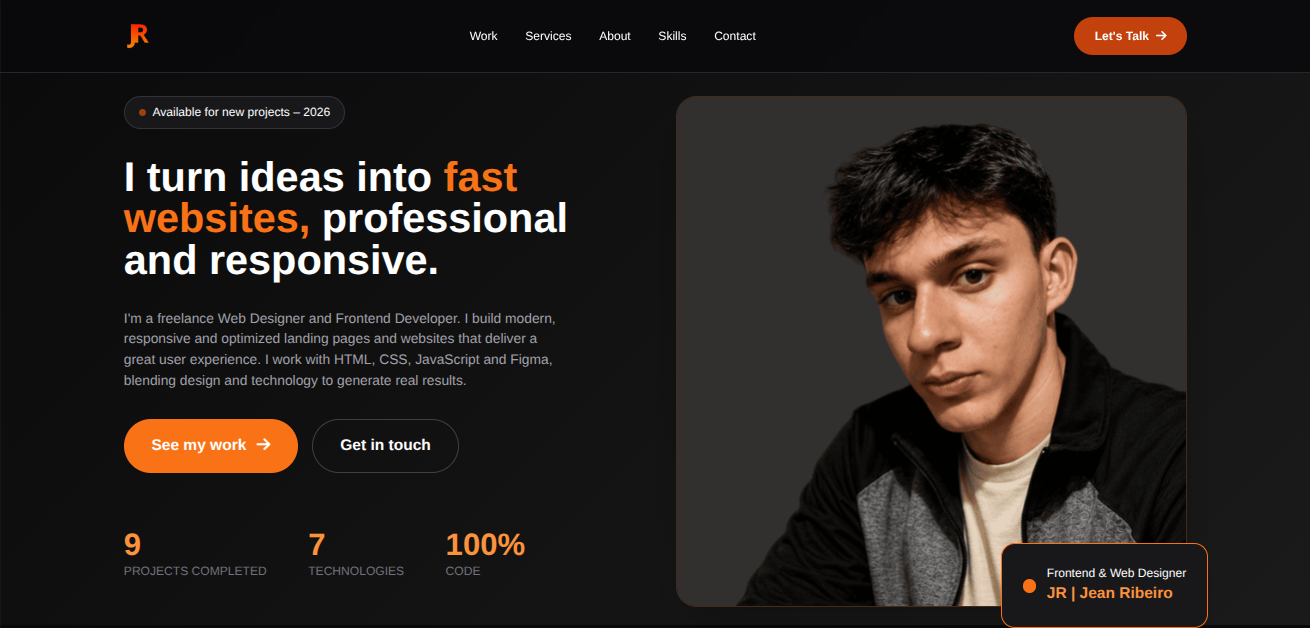
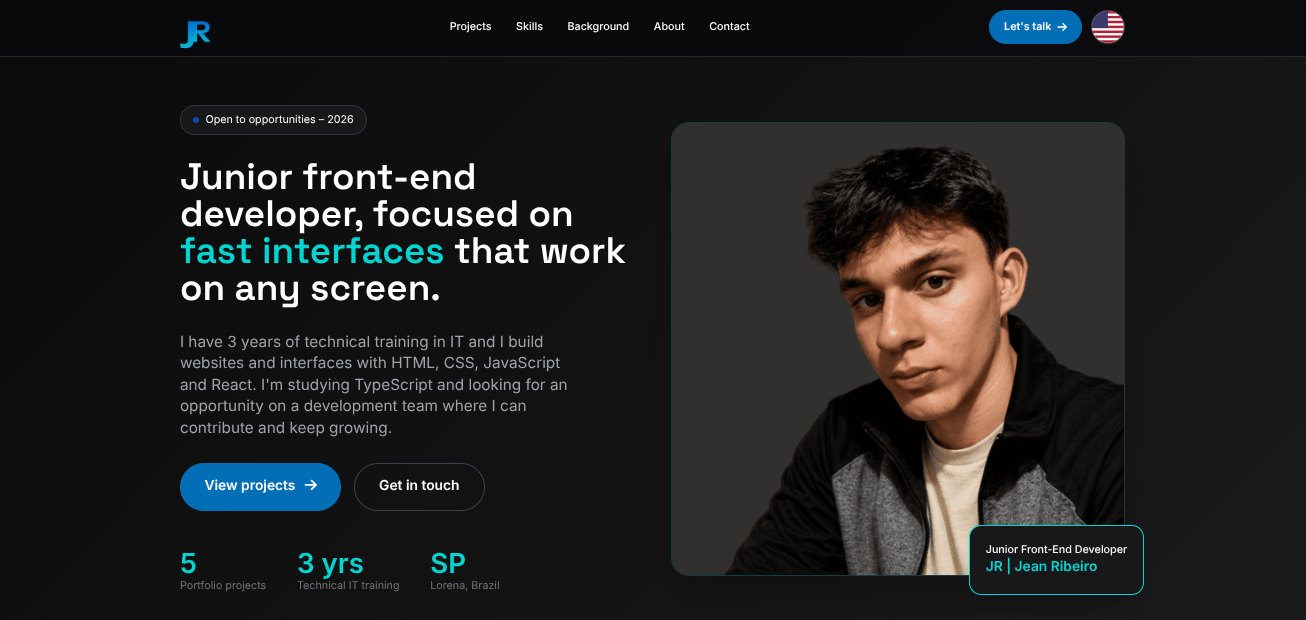
upd

diff --git a/src/script/script.js b/src/script/script.js
@@ -1,132 +1,5 @@
-   // Simple tailwind script already included via CDN
-        // Add smooth scroll
-        document.querySelectorAll('a[href^="#"]').forEach(anchor => {
-            anchor.addEventListener('click', function (e) {
-                if (this.getAttribute('href') !== '#') {
-                    e.preventDefault();
-                    document.querySelector(this.getAttribute('href')).scrollIntoView({
-                        behavior: 'smooth'
-                    });
-                }
-            });
-        });
-
-
-//FILTER
-
-    const filterSelect = document.getElementById('projectFilter');
-    const projectCards = document.querySelectorAll('.project-card');
-
-    filterSelect.addEventListener('change', function () {
-        const selected = this.value;
-
-        projectCards.forEach(card => {
-            const category = card.getAttribute('data-category');
-
-            if (selected === 'all' || category === selected) {
-                card.style.display = 'block';
-            
-                card.style.opacity = '0';
-                setTimeout(() => {
-                    card.style.opacity = '1';
-                    card.style.transition = 'opacity 0.3s ease';
-                }, 50);
-            } else {
-                card.style.display = 'none';
-            }
-        });
-    });
-
-  gsap.registerPlugin(ScrollTrigger);
-
-  // ======================
-  // HERO
-  // ======================
-  gsap.from(".hero-bg .space-y-8 > *", {
-    opacity: 0,
-    y: 40,
-    duration: 0.9,
-    stagger: 0.15,
-    ease: "power3.out",
-    delay: 0.2
-  });
-
-  gsap.from(".hero-bg .relative", {
-    opacity: 0,
-    x: 60,
-    duration: 1.1,
-    ease: "power3.out",
-    delay: 0.4
-  });
-
-  // ======================
-  // ABOUT
-  // ======================
-  gsap.from("#about .md\\:col-span-5", {
-    opacity: 0,
-    x: -40,
-    duration: 1,
-    ease: "power3.out",
-    scrollTrigger: {
-      trigger: "#about",
-      start: "top 80%"
-    }
-  });
-
-  gsap.from("#about .md\\:col-span-7 > *", {
-    opacity: 0,
-    y: 30,
-    duration: 0.8,
-    stagger: 0.1,
-    ease: "power3.out",
-    scrollTrigger: {
-      trigger: "#about",
-      start: "top 75%"
-    }
-  });
-
-  // ======================
-  // SKILLS
-  // ======================
-  gsap.from("#skills .grid > div", {
-    opacity: 0,
-    y: 40,
-    duration: 0.8,
-    stagger: 0.12,
-    ease: "power3.out",
-    scrollTrigger: {
-      trigger: "#skills",
-      start: "top 80%"
-    }
-  });
-
-
-  // ======================
-  // CONTACT
-  // ======================
-  gsap.from("#contact .grid > div:first-child", {
-    opacity: 0,
-    x: -40,
-    duration: 1,
-    ease: "power3.out",
-    scrollTrigger: {
-      trigger: "#contact",
-      start: "top 80%"
-    }
-  });
-
-  gsap.from("#contact form", {
-    opacity: 0,
-    x: 40,
-    duration: 1,
-    ease: "power3.out",
-    scrollTrigger: {
-      trigger: "#contact",
-      start: "top 80%"
-    }
-  });
-
-
+// As animações (GSAP) ficam no bloco inline do index.html.
+// O scroll suave é feito pelo CSS (scroll-behavior: smooth em style.css).
 
 // ===== Menu mobile =====
 const menuBtn = document.getElementById('menuBtn'), mobileMenu = document.getElementById('mobileMenu');
@@ -149,14 +22,17 @@ const EN = {
   "Projetos no portfólio":"Portfolio projects","3 anos":"3 yrs","Formação técnica em TI":"Technical IT training","Lorena, Brasil":"Lorena, Brazil",
   "Desenvolvedor Front-End Júnior":"Junior Front-End Developer",
   "Projetos que fiz para praticar e demonstrar minhas habilidades. Cada card mostra as tecnologias usadas, com o site publicado e o código no GitHub quando disponíveis.":"Projects I built to practice and showcase my skills. Each card lists the technologies used, with the live site and the code on GitHub when available.",
-  "Dashboard de Operações Empresariais":"Enterprise Operations Dashboard","Dashboard de Analytics de Engenharia":"Engineering Analytics Dashboard","Aplicação de Vagas":"Job Board Application","Projeto de Performance em React":"React Performance Project","Ferramenta de Análise Estática de Código":"Static Code Analysis Tool",
+  "Dashboard de Operações Empresariais":"Enterprise Operations Dashboard",
+  "Dashboard de Analytics de Engenharia":"Engineering Analytics Dashboard",
+  "Aplicação de Vagas":"Job Board Application",
+  "Projeto de Performance em React":"React Performance Project",
+  "Ferramenta de Análise Estática de Código":"Static Code Analysis Tool",
   "Dashboard empresarial para gerenciar usuários, equipes, projetos, tarefas, relatórios, logs de auditoria e configurações do sistema.":"Enterprise dashboard for managing users, teams, projects, tasks, reports, audit logs, and system settings.",
   "Dashboard de analytics de engenharia para monitorar repositórios, pull requests, code reviews, atividade da equipe, riscos e recomendações no estilo de IA.":"Engineering analytics dashboard for monitoring repositories, pull requests, code reviews, team activity, risks, and AI-style recommendations.",
   "Job board responsivo com busca, filtros, paginação, estados de carregamento, erro e resultados vazios, integrado a uma API REST externa.":"Responsive job board with search, filters, pagination, loading, error, and empty states, integrated with an external REST API.",
   "Projeto em React e TypeScript voltado ao estudo de performance, comportamento de componentes e otimização do front-end.":"React and TypeScript project focused on performance, component behavior, and frontend optimization.",
   "Ferramenta de análise estática para JavaScript e TypeScript usando AST, métricas de código, detecção de problemas, sugestões e análise assistida por IA.":"Static analysis tool for JavaScript and TypeScript using AST parsing, code metrics, issue detection, suggestions, and AI-assisted analysis.",
-  "Ver site":"Live site","GitHub":"GitHub",
-  "Visualizar":"Preview","Ver site":"Ver site","Código":"Code",
+  "Ver site":"Live site","Código":"Code",
   "Tecnologias que uso nos projetos e as que estou aprendendo agora.":"Technologies I use in my projects and the ones I'm learning right now.",
   "Ferramentas e práticas":"Tools and practices","Design responsivo":"Responsive design","APIs REST":"REST APIs",
   "CMS e back-end básico":"CMS and basic back-end","Estudando agora":"Currently studying",
@@ -173,16 +49,11 @@ const EN = {
   "Vamos conversar?":"Let's talk?",
   "Está recrutando ou quer saber mais sobre algum projeto? Envie uma mensagem. Respondo em até 24 horas.":"Are you hiring or want to know more about a project? Send me a message. I reply within 24 hours.",
   "Lorena, SP, Brasil":"Lorena, SP, Brazil","Enviar mensagem":"Send message",
-  /* atributos */
+  /* atributos (placeholder, aria-label, alt) */
   "Nome":"Name","E-mail":"Email","Empresa (opcional)":"Company (optional)","Escreva sua mensagem...":"Write your message...",
   "Empresa":"Company","Mensagem":"Message","Abrir menu":"Open menu","Principal":"Main","Tecnologias":"Technologies",
   "Logo JR Desenvolvedor Front-End":"JR Front-End Developer logo",
-  "OpsHub":"OpsHub","DevInsight":"DevInsight","Jobly":"Jobly","React Performance":"React Performance","CodeLens":"CodeLens",
-  "Jean Ribeiro, desenvolvedor front-end júnior":"Jean Ribeiro, junior front-end developer",
-  "Landing page da barbearia":"Barbershop landing page","Landing page da academia":"Gym landing page",
-  "Site da Techschool":"Techschool website","Site da Nexus Consulting":"Nexus Consulting website",
-  "Site da clínica odontológica BrightSmile":"BrightSmile dental clinic website",
-  "Site da agência Blaze Agencia":"Blaze Agencia marketing website","E-commerce da Petalora":"Petalora e-commerce website"
+  "Jean Ribeiro, desenvolvedor front-end júnior":"Jean Ribeiro, junior front-end developer"
 };
 const META = {
   pt: { title: document.title, desc: document.querySelector('meta[name="description"]').content },
@@ -252,4 +123,3 @@ contactForm.addEventListener('submit', async e => {
     if (r.ok) { contactForm.reset(); setStatus('ok', 'text-green-400'); } else throw new Error();
   } catch (err) { setStatus('err', 'text-red-400'); }
 });
-

diff --git a/index.html b/index.html
@@ -7,6 +7,9 @@
 <meta name="description" content="Desenvolvedor Front-End júnior em Lorena (SP). Interfaces responsivas com HTML, CSS, JavaScript e React. Veja meus projetos, competências e entre em contato.">
 <!-- Depois de definir a URL final deste site, adicione: <link rel="canonical" href="https://SEU-DOMINIO/"> -->
 <link rel="icon" href="./src/img/favic.png">
+<link rel="preconnect" href="https://fonts.googleapis.com">
+<link rel="preconnect" href="https://fonts.gstatic.com" crossorigin>
+<link href="https://fonts.googleapis.com/css2?family=Inter:wght@400;500;600&family=Space+Grotesk:wght@500;600&display=swap" rel="stylesheet">
 <link rel="stylesheet" href="./src/style/style.css">
 <script src="https://cdn.tailwindcss.com"></script>
 <link rel="stylesheet" href="https://cdnjs.cloudflare.com/ajax/libs/font-awesome/6.5.1/css/all.min.css">
@@ -118,16 +121,9 @@
     <div id="projectsGrid" class="grid md:grid-cols-2 gap-8">
 
       <article class="project-card group card-hover bg-zinc-900 rounded-3xl overflow-hidden border border-zinc-800">
-      
         <div class="h-80 bg-zinc-800 overflow-hidden">
-    <img
-        src="./src/img-sites/opshub.webp"
-        alt="OpsHub dashboard"
-        class="w-full h-full object-cover"
-        loading="lazy"
-    >
-</div>
-
+          <img src="./src/img-sites/opshub.webp" alt="OpsHub dashboard" class="w-full h-full object-cover" loading="lazy">
+        </div>
         <div class="p-8">
           <div class="flex justify-between items-start gap-4">
             <div><h3 class="font-semibold text-xl">OpsHub</h3><div class="text-zinc-400 text-sm">Dashboard de Operações Empresariais</div></div>
@@ -142,16 +138,9 @@
       </article>
 
       <article class="project-card group card-hover bg-zinc-900 rounded-3xl overflow-hidden border border-zinc-800">
-      
-         <div class="h-80 bg-zinc-800 overflow-hidden">
-    <img
-        src="./src/img-sites/dev.webp"
-        alt="DevInsight dashboard"
-        class="w-full h-full object-cover"
-        loading="lazy"
-    >
-</div>
-
+        <div class="h-80 bg-zinc-800 overflow-hidden">
+          <img src="./src/img-sites/dev.webp" alt="DevInsight dashboard" class="w-full h-full object-cover" loading="lazy">
+        </div>
         <div class="p-8">
           <div class="flex justify-between items-start gap-4">
             <div><h3 class="font-semibold text-xl">DevInsight</h3><div class="text-zinc-400 text-sm">Dashboard de Analytics de Engenharia</div></div>
@@ -166,16 +155,9 @@
       </article>
 
       <article class="project-card group card-hover bg-zinc-900 rounded-3xl overflow-hidden border border-zinc-800">
-       
-         <div class="h-80 bg-zinc-800 overflow-hidden">
-    <img
-        src="./src/img-sites/job.webp"
-        alt="Jobly"
-        class="w-full h-full object-cover"
-        loading="lazy"
-    >
-</div>
-
+        <div class="h-80 bg-zinc-800 overflow-hidden">
+          <img src="./src/img-sites/job.webp" alt="Jobly" class="w-full h-full object-cover" loading="lazy">
+        </div>
         <div class="p-8">
           <div class="flex justify-between items-start gap-4">
             <div><h3 class="font-semibold text-xl">Jobly</h3><div class="text-zinc-400 text-sm">Aplicação de Vagas</div></div>
@@ -190,15 +172,9 @@
       </article>
 
       <article class="project-card group card-hover bg-zinc-900 rounded-3xl overflow-hidden border border-zinc-800">
-       <div class="h-80 bg-zinc-800 overflow-hidden">
-    <img
-        src="./src/img-sites/react-p.webp"
-        alt="React Performance"
-        class="w-full h-full object-cover"
-        loading="lazy"
-    >
-</div>
-      
+        <div class="h-80 bg-zinc-800 overflow-hidden">
+          <img src="./src/img-sites/react-p.webp" alt="React Performance" class="w-full h-full object-cover" loading="lazy">
+        </div>
         <div class="p-8">
           <div class="flex justify-between items-start gap-4">
             <div><h3 class="font-semibold text-xl">React Performance</h3><div class="text-zinc-400 text-sm">Projeto de Performance em React</div></div>
@@ -214,14 +190,8 @@
 
       <article class="project-card group card-hover bg-zinc-900 rounded-3xl overflow-hidden border border-zinc-800">
         <div class="h-80 bg-zinc-800 overflow-hidden">
-    <img
-        src="./src/img-sites/code.webp"
-        alt="CodeLens dashboard"
-        class="w-full h-full object-cover"
-        loading="lazy"
-    >
-</div>
-
+          <img src="./src/img-sites/code.webp" alt="CodeLens dashboard" class="w-full h-full object-cover" loading="lazy">
+        </div>
         <div class="p-8">
           <div class="flex justify-between items-start gap-4">
             <div><h3 class="font-semibold text-xl">CodeLens</h3><div class="text-zinc-400 text-sm">Ferramenta de Análise Estática de Código</div></div>
@@ -339,13 +309,15 @@
   <div class="social">
     <a href="https://github.com/JeanRibeiro8?tab=repositories" target="_blank" rel="noopener noreferrer" aria-label="GitHub" title="GitHub"><i class="fa-brands fa-github"></i></a>
     <a href="https://www.linkedin.com/in/jean-ribeiro-9a3792267/" target="_blank" rel="noopener noreferrer" aria-label="LinkedIn" title="LinkedIn"><i class="fa-brands fa-linkedin"></i></a>
+  <a href="https://wa.me/5512991371731" target="_blank" rel="noopener noreferrer" aria-label="WhatsApp" title="WhatsApp"><i class="fa-brands fa-whatsapp"></i></a>
+  
   </div>
 </footer>
 
-
+<!-- GSAP: o conteúdo continua visível se a biblioteca não carregar -->
 <script src="https://cdnjs.cloudflare.com/ajax/libs/gsap/3.12.5/gsap.min.js" defer></script>
 <script src="https://cdnjs.cloudflare.com/ajax/libs/gsap/3.12.5/ScrollTrigger.min.js" defer></script>
-<script defer>
+<script>
 window.addEventListener('load', () => {
   if (!window.gsap || !window.ScrollTrigger || matchMedia('(prefers-reduced-motion: reduce)').matches) return;
   gsap.registerPlugin(ScrollTrigger);
@@ -354,7 +326,9 @@ window.addEventListener('load', () => {
   gsap.from('#skills .grid > div', { opacity: 0, y: 40, duration: 0.8, stagger: 0.12, ease: 'power3.out', scrollTrigger: { trigger: '#skills', start: 'top 80%', once: true } });
   gsap.from('#contact form', { opacity: 0, y: 30, duration: 0.9, ease: 'power3.out', scrollTrigger: { trigger: '#contact', start: 'top 80%', once: true } });
 });
+</script>
 
+<!-- Menu mobile, troca de idioma e formulário -->
 <script src="./src/script/script.js"></script>
 
 </body>
